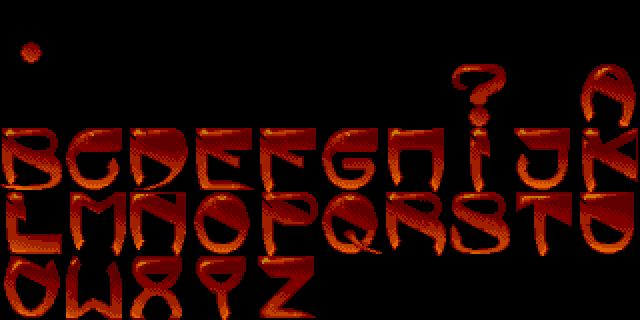
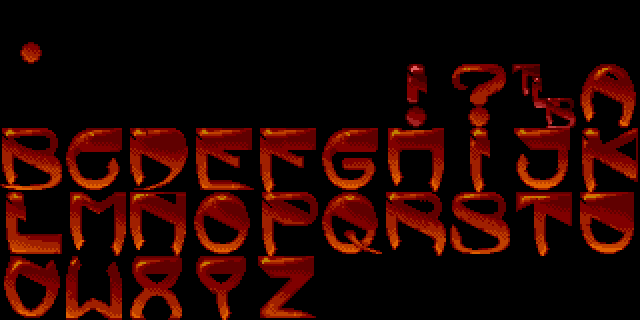
Red scrolline

Changed region(s): [[0.7812, 0.1875, 0.9062, 0.4062], [0.625, 0.1875, 0.6875, 0.4062]]

diff --git a/media/SpiralScroll.js b/media/SpiralScroll.js
@@ -6,19 +6,76 @@ class SpiralScroll {
     this.main = this.main.bind(this);
     this.stop = this.stop.bind(this);
     this.end = this.end.bind(this);
+    this.redScroll = this.redScroll.bind(this);
   }
 
   // Loads resources and returns a Promise
   // You can make long precalculations here.
   load() {
-    return this.demoManager.loadResource('mind-logo1.png').then(introImage => {
-      this.introImage = introImage;
+    return Promise.all(this.demoManager.loadResource(['Hellfire_64x64_46.png', 'CyclicRaster.png', 'OnePlan_32x32.png'])).then(data => {
+      [this.hell, this.raster, this.font] = data;
     });
   }
 
   // Initialize the demo (all resources are already loaded)
   // Initialize scrolltexts here (for example)
   init() {
+    this.font.initTile(32,32,32);
+    const text = "THIS DEMO IS DEDICATED TO ALL OUR FRIENDS. THANKS> @ RULE ST>";
+    this.scrollCan = new canvas(64, text.length*64);
+    
+    // Change Hellfire font palet
+    let tmpCan = new canvas(640,320);
+    this.hell.draw(tmpCan,0,0);
+    let pixData = tmpCan.contex.getImageData(0,0,640,320);
+    let d = pixData.data;
+    for(let i=0; i<d.length; i+=4){
+      switch(d[i]){
+        case 0xE0:
+          d[i]   = 0xC0;
+          d[i+1] = 0x40;
+          d[i+2] = 0x40;
+          break;
+        case 0xC0:
+          if(d[i+1] == 0x80){
+            d[i]   = 0xE0;
+            d[i+1] = 0x60;
+            d[i+2] = 0x60;
+          } else {
+            d[i]   = 0xA0;
+            d[i+1] = 0x20;
+            d[i+2] = 0x20;
+          }
+          break;
+        case 0xA0:
+          d[i]   = 0x80;
+          d[i+1] = 0;
+          d[i+2] = 0;
+          break;
+        case 0x80:
+          d[i]   = 0x60;
+          d[i+1] = 0;
+          d[i+2] = 0;
+          break;
+        case 0x60:
+          d[i]   = 0x40;
+          d[i+1] = 0;
+          d[i+2] = 0;
+          break;
+        case 0: // Transparent
+          d[i+3] = 0;
+      }
+    }
+    tmpCan.clear();
+    tmpCan.contex.putImageData(pixData,0,0);
+    this.hell = new image(tmpCan.canvas.toDataURL('image/png'));
+    let me = this;
+    this.hell.img.onload = () => {
+      this.hell.initTile(64,64,46);
+      text.split('').forEach((letter,i) => this.hell.print(this.scrollCan, letter, 0, i*64));
+    }
+    this.midScroll = (text.length*64 - 400)/2;
+    this.scrollCtr = 0;
     this.running = true;
   }
 
@@ -30,7 +87,6 @@ class SpiralScroll {
       this.can = new canvas(640, 400, "main");
       this.ctx = this.can.contex;
       document.body.addEventListener('keydown', this.onKeyPressed);
-      setTimeout(this.stop, 4500);
       window.requestAnimFrame(this.main);
     });
   }
@@ -38,17 +94,20 @@ class SpiralScroll {
   // Main loop, called by Codef requestAnimFrame
   main() {
     if (this.running) {
-      this.introImage.draw(this.can, 16, 16);
-      this.ctx.font = 'bold 24px "Comic sans MS", serif';
-      this.ctx.fillStyle = '#F80';
-      this.ctx.textAlign = 'center';
-      this.ctx.fillText("This will be the " + this.constructor.name + " demo.", 320, 200);
+      this.can.clear();
+      this.redScroll();
       window.requestAnimFrame(this.main);
     } else {
       this.end();
     }
   }
 
+  redScroll(){
+    let y = this.midScroll + this.midScroll*Math.sin(this.scrollCtr += 0.005);
+    this.scrollCan.draw(this.can, 0, ~~-y);
+    this.scrollCan.draw(this.can, 576, ~~-y);
+  }
+  
   stop() {
     this.running = false;
   }
